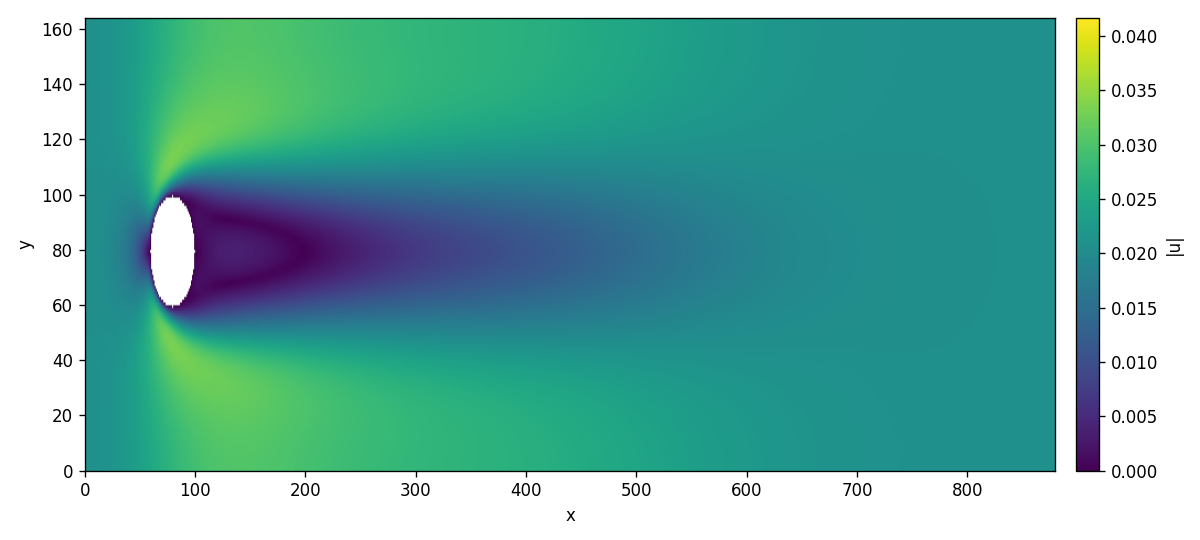
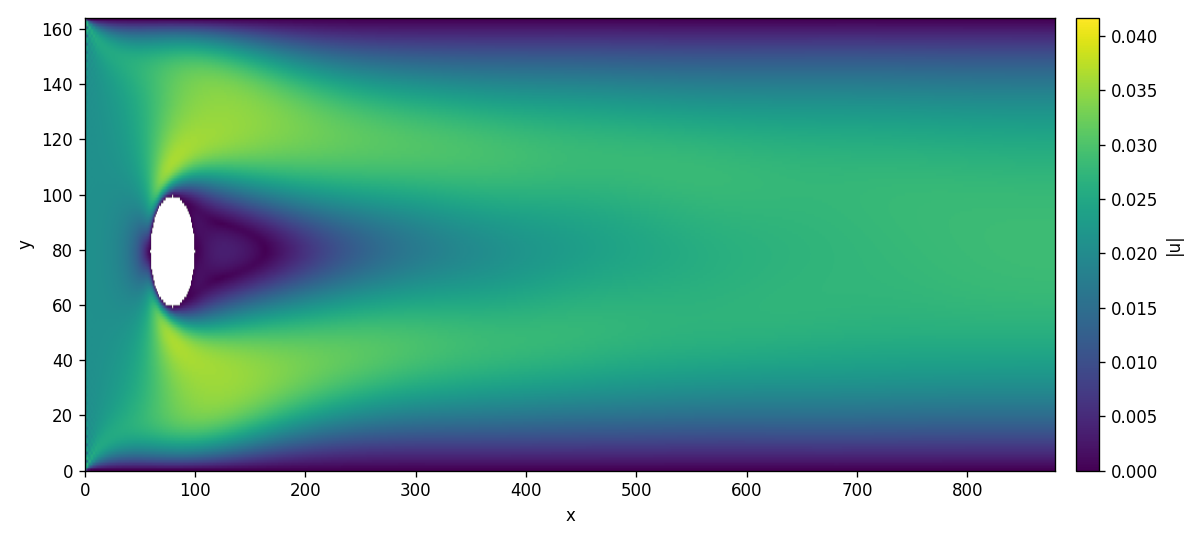
new LBM and figures

diff --git a/Assignment3/LBM.py b/Assignment3/LBM.py
@@ -25,7 +25,7 @@ Usage:        python lbm_karman.py
 import numpy as np
 import matplotlib.pyplot as plt
 import os
-from numba import njit
+from numba import njit, prange
 
 # =============================================================================
 # 1.  D2Q9 Lattice Definition
@@ -112,7 +112,7 @@ def get_params(Re_targets, tau_nom=0.6, Ma_max=0.1):
 
 # Flow parameters
 #U_inlet = 0.08      # inlet velocity (lattice units, keep ≪ 1 for low Mach)
-Re_targets = [300, 400, 500]       # target Reynolds number
+Re_targets = [50, 100, 150, 400, 500]       # target Reynolds number
 
 # Derived quantities:
 #   Re = U * D / nu   →  nu = U * D / Re
@@ -121,6 +121,7 @@ Re_targets = [300, 400, 500]       # target Reynolds number
                             # cylinder diameter
                       # kinematic viscosity
 tau = 0.55                        # BGK relaxation time
+C_smag = 0.15                     # Smagorinsky constant for subgrid-scale model
 
 # =============================================================================
 # 3.  Equilibrium Distribution Function
@@ -158,7 +159,25 @@ def equilibrium(rho, ux, uy, Nx, Ny):
                                       + 4.5 * cu**2         # (c_i·u)² / (2·cs⁴)
                                       - 1.5 * usqr)         # -|u|² / (2·cs²)
     return feq
-    
+
+
+@njit(parallel=True, cache=True)
+def stream(f_out, f, c):
+    """Numba-accelerated parallel streaming (replaces 9 np.roll calls)."""
+    Nx, Ny = f.shape[0], f.shape[1]
+    for i in range(9):
+        cx_i = c[i, 0]
+        cy_i = c[i, 1]
+        for x in prange(Nx):
+            for y in range(Ny):
+                xs = x - cx_i
+                ys = y - cy_i
+                if xs < 0: xs += Nx
+                elif xs >= Nx: xs -= Nx
+                if ys < 0: ys += Ny
+                elif ys >= Ny: ys -= Ny
+                f[x, y, i] = f_out[xs, ys, i]
+
 
 # =============================================================================
 # 5.  Main Function
@@ -266,9 +285,8 @@ def main():
     #  np.roll provides periodic wrapping, which serves as the y-boundary
     #  condition (periodic in the vertical direction).
 
-    n_steps  = 30000   # total number of timesteps
-    plot_every = 5000    # plot interval (steps)
-    monitor_every = 500
+    n_flow = 3   # base flow-throughs (scaled by Re below)
+    monitor_every = 1000
     U_list, Re_list, Nx_list, Ny_list, r_cyl_list, cx_cyl_list, cy_cyl_list = get_params(Re_targets, tau_nom=0.6, Ma_max=0.1)
     for i in range(len(Re_list)):
         U_inlet = U_list[i]
@@ -280,6 +298,15 @@ def main():
         cy_cyl = cy_cyl_list[i]
         D = 2 * r_cyl
         nu  = U_inlet * D / Re
+        flow_time = int(Nx / U_inlet)
+        # Low Re: steady flow, 1 flow-through enough. High Re: need 3+
+        if Re < 100:
+            n_ft = 1 
+            plot_every = 5000
+        else:
+            n_ft = n_flow
+            plot_every = flow_time
+        n_steps = n_ft * flow_time
         x = np.arange(Nx)
         y = np.arange(Ny)
         X, Y = np.meshgrid(x, y, indexing='ij')    # X,Y have shape (Nx, Ny)
@@ -307,44 +334,58 @@ def main():
 
         # Initialize distributions to equilibrium
         f = equilibrium(rho_init, ux_init, uy_init, Nx, Ny)
+        f_out = np.empty_like(f)
+
+        # Precompute Smagorinsky vectors
+        cc_xx = (c[:, 0] * c[:, 0]).astype(np.float64)
+        cc_xy = (c[:, 0] * c[:, 1]).astype(np.float64)
+        cc_yy = (c[:, 1] * c[:, 1]).astype(np.float64)
+
+        # JIT warmup
+        stream(f, f_out, c)
+        f = equilibrium(rho_init, ux_init, uy_init, Nx, Ny)
+
         print(f"\nRunning {n_steps} timesteps ...")
         for step in range(1, n_steps + 1):
             # -------------------------------------------------------------
-            # 7a.  Macroscopic quantities: density and velocity
-            #      rho = Σ f_i,   rho·u = Σ c_i · f_i
+            # 7a.  Macroscopic quantities
             # -------------------------------------------------------------
             rho = np.sum(f, axis=2)
             ux  = np.sum(f * c[:, 0], axis=2) / rho
             uy  = np.sum(f * c[:, 1], axis=2) / rho
 
             # -------------------------------------------------------------
-            # 7b.  Collision step (BGK single-relaxation-time)
-            #      f_out_i = f_i - (f_i - f_i^eq) / tau
-            #
-            #      f_out is a NEW array so that f (pre-collision) is
-            #      preserved for the bounce-back step below.
+            # 7b.  Collision (BGK + Smagorinsky subgrid model)
             # -------------------------------------------------------------
             feq   = equilibrium(rho, ux, uy, Nx, Ny)
-            f_out = f - (f - feq) / tau
+            f_neq = f - feq
+
+            # Smagorinsky: adapt tau locally based on strain rate
+            Qxx = f_neq @ cc_xx
+            Qxy = f_neq @ cc_xy
+            Qyy = f_neq @ cc_yy
+            S_bar = np.sqrt(2.0 * (Qxx**2 + 2.0 * Qxy**2 + Qyy**2))
+            tau_eff = 0.5 * (tau + np.sqrt(tau**2 + 18.0 * C_smag**2 * S_bar / rho))
+
+            np.subtract(f, f_neq / tau_eff[..., np.newaxis], out=f_out)
 
             # -------------------------------------------------------------
-            # 7c.  Bounce-back on obstacle (no-slip wall condition)
-            #      At obstacle nodes, replace post-collision populations
-            #      with PRE-collision populations from the opposite
-            #      direction.  When streamed, they travel back the way
-            #      they came — reflecting off the obstacle surface.
+            # 7c.  Bounce-back on obstacle
             # -------------------------------------------------------------
-            for dir_idx in range(9):
-                f_out[obstacle, dir_idx] = f[obstacle, opp[dir_idx]]
+            f_out[obstacle] = f[obstacle][:, opp]
 
             # -------------------------------------------------------------
-            # 7d.  Streaming step
-            #      Shift each f_i by its lattice velocity c_i.
-            #      np.roll provides periodic wrapping in y.
+            # 7d.  Streaming (numba-accelerated, parallel)
             # -------------------------------------------------------------
-            for dir_idx in range(9):
-                f[:, :, dir_idx] = np.roll(f_out[:, :, dir_idx], shift=c[dir_idx, 0], axis=0)
-                f[:, :, dir_idx] = np.roll(f[:, :, dir_idx],     shift=c[dir_idx, 1], axis=1)
+            stream(f_out, f, c)
+
+            # No-slip walls (top & bottom)
+            f[:, 0,  2] = f[:, 0,  4]
+            f[:, 0,  5] = f[:, 0,  7]
+            f[:, 0,  6] = f[:, 0,  8]
+            f[:, -1, 4] = f[:, -1, 2]
+            f[:, -1, 7] = f[:, -1, 5]
+            f[:, -1, 8] = f[:, -1, 6]
 
             # -------------------------------------------------------------
             # 7e.  Outlet boundary condition (zero-gradient / open)
@@ -375,9 +416,9 @@ def main():
             # 7g.  Visualization & progress
             # -------------------------------------------------------------
             if step % plot_every == 0:
-                plot_field(ux, uy, step, U_inlet,'vorticity', i + 3, Re, Nx, Ny, obstacle)
+                plot_field(ux, uy, step, U_inlet,'vorticity', i, Re, Nx, Ny, obstacle)
             if step % plot_every == 0:
-                plot_field(ux, uy, step, U_inlet,'velocity', i + 3, Re, Nx, Ny, obstacle)
+                plot_field(ux, uy, step, U_inlet,'velocity', i, Re, Nx, Ny, obstacle)
 
             if step % 1000 == 0:
                 avg_rho = np.mean(rho[~obstacle])
